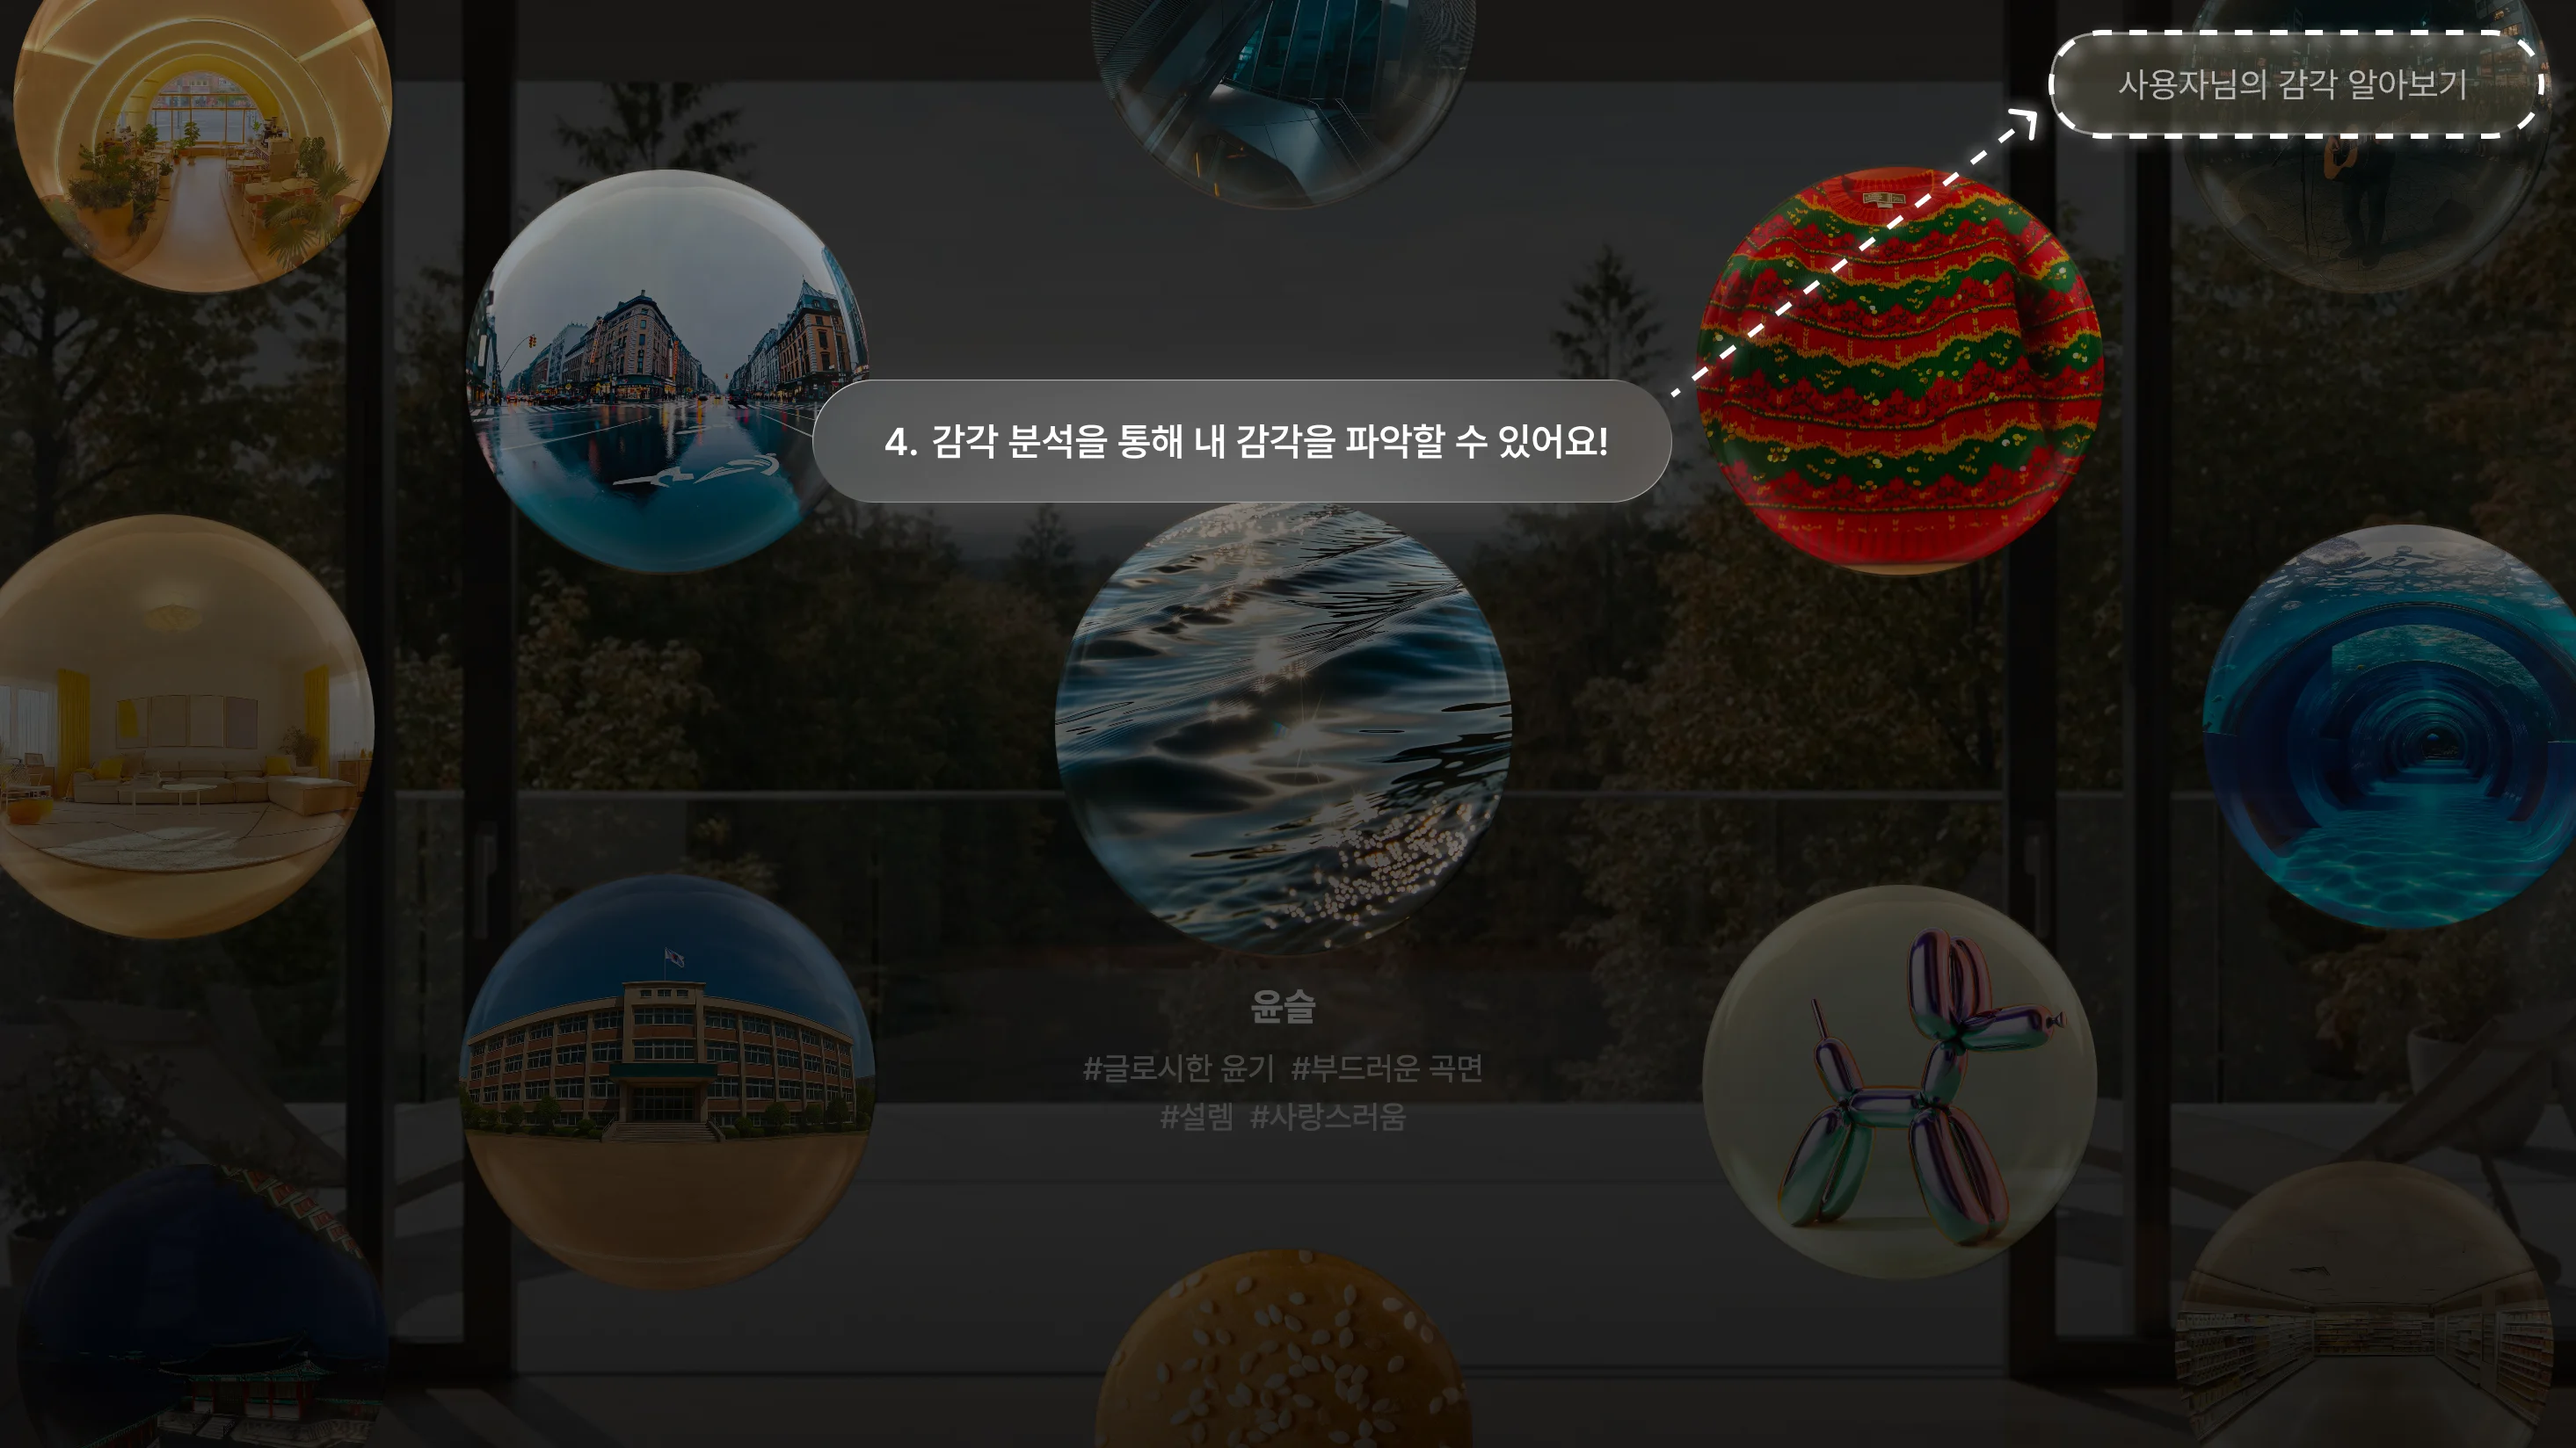
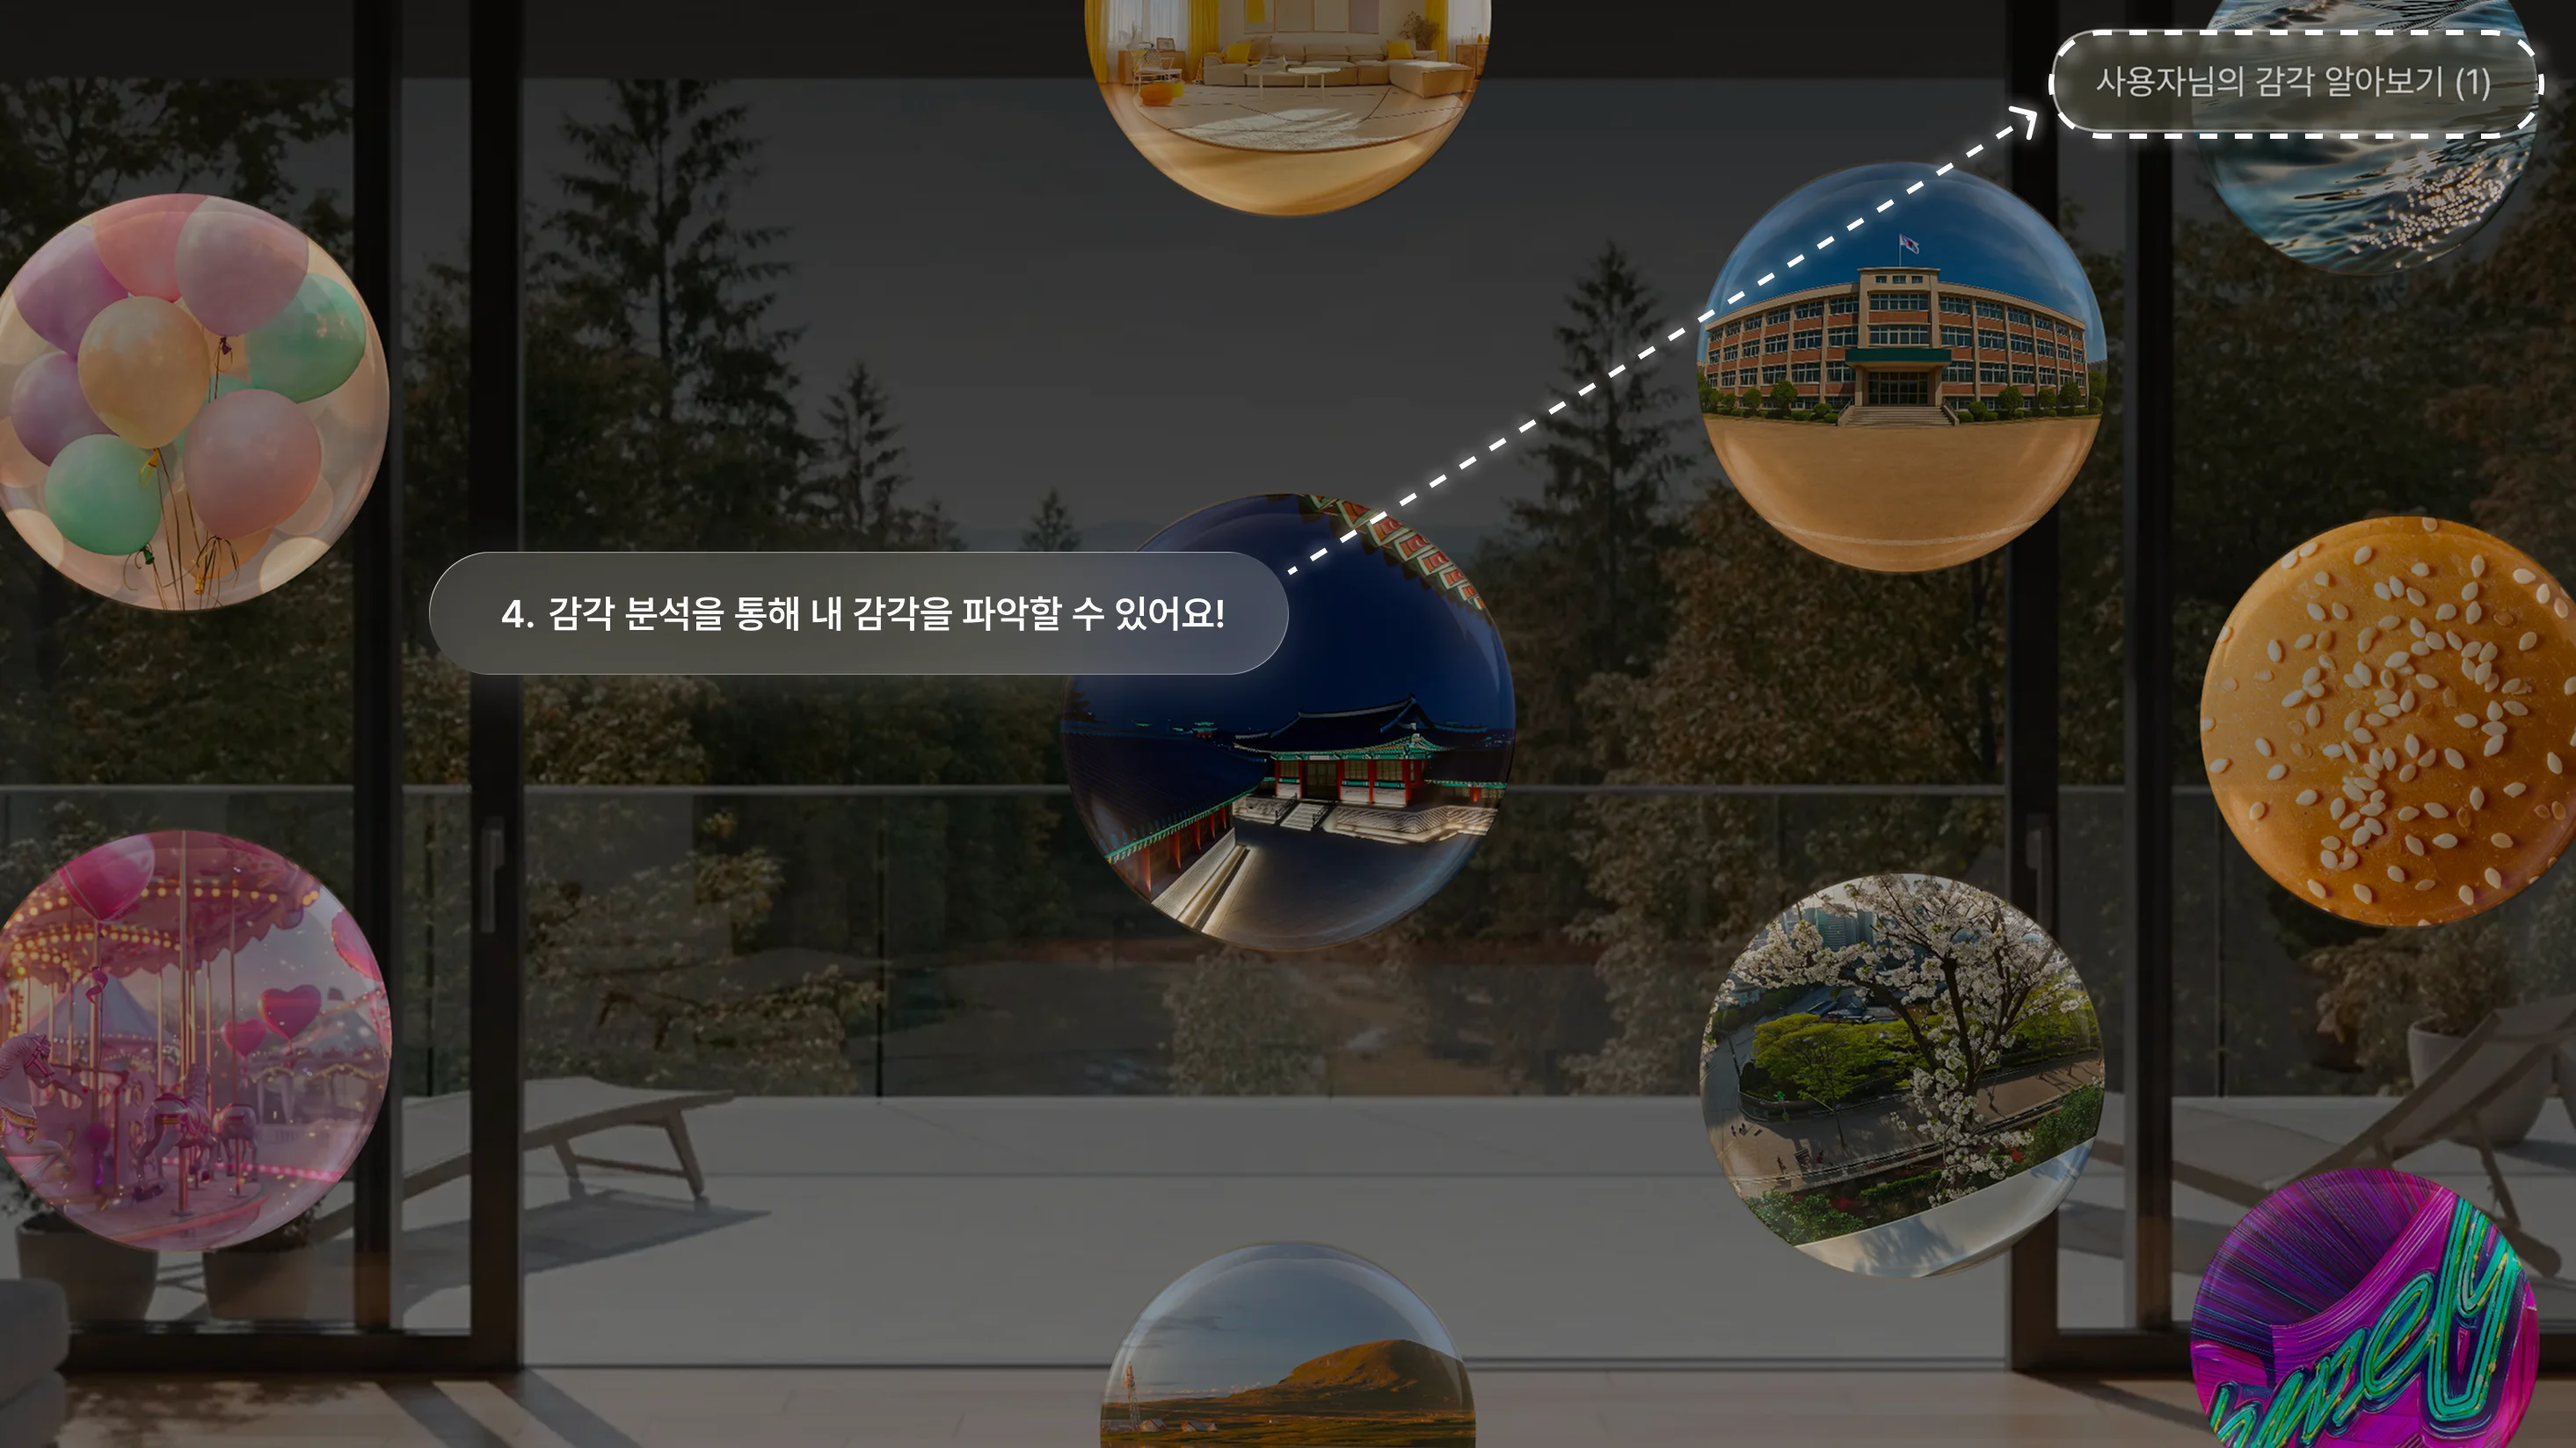
온보딩 추가10

diff --git a/gallery/sketch copy.js b/gallery/sketch copy.js
@@ -2942,11 +2942,11 @@ function drawOnboarding() {
       imageRelativeY = 1;
     } else if (onboardingCurrentPage === 1) {
       // 2번 페이지: 이미지의 104%, 140% 위치 (오른쪽으로 더 이동)
-      imageRelativeX = 1.04;
-      imageRelativeY = 1.4;
+      imageRelativeX = 0.84;
+      imageRelativeY = 0.79;
     } else if (onboardingCurrentPage === 2) {
       // 3번 페이지: 이미지의 68%, 135% 위치
-      imageRelativeX = 0.68;
+      imageRelativeX = 0.85;
       imageRelativeY = 1.35;
     } else if (onboardingCurrentPage === 3) {
       // 4번 페이지: 이미지의 50%, 50% 위치 (중앙)
@@ -2995,40 +2995,6 @@ function drawOnboarding() {
     drawingContext.restore();
     pop();
     
-    // "옆으로 넘겨주세요" 텍스트 (1번 페이지에만 표시)
-    if (onboardingCurrentPage === 0) {
-      push();
-      drawingContext.save();
-      drawingContext.textBaseline = "middle";
-      drawingContext.textAlign = "center";
-      drawingContext.imageSmoothingEnabled = true;
-      drawingContext.imageSmoothingQuality = "high";
-      
-      if (fontPretendard) textFont(fontPretendard);
-      textAlign(CENTER, CENTER);
-      
-      // 텍스트 크기 및 스타일
-      const textSize_val = 24 * s;
-      textSize(textSize_val);
-      drawingContext.font = `500 ${textSize_val}px "Pretendard Variable", Pretendard, sans-serif`;
-      
-      // 텍스트 색상 (흰색, 약간 투명)
-      fill(255, 255, 255, 220);
-      
-      // 텍스트 위치 (손 아래 60px)
-      const textY = handY + handSize / 2 + 60 * s;
-      
-      // 그림자 효과
-      drawingContext.shadowBlur = 8;
-      drawingContext.shadowColor = "rgba(0, 0, 0, 0.5)";
-      drawingContext.shadowOffsetX = 0;
-      drawingContext.shadowOffsetY = 2;
-      
-      text("옆으로 넘겨주세요", width / 2, textY);
-      
-      drawingContext.restore();
-      pop();
-    }
   }
   
   // 시작하기 버튼 페이지 배경 (현재 페이지가 시작하기 페이지일 때, translate 밖에서)
